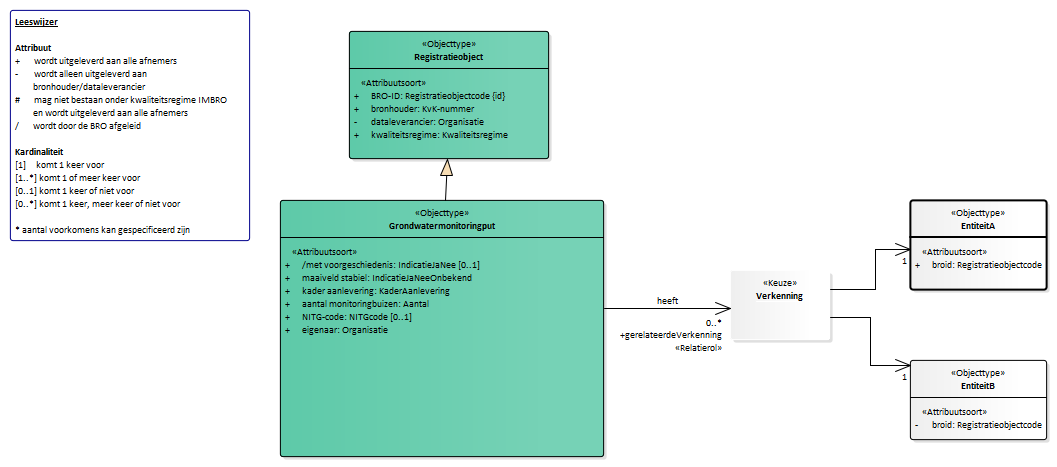
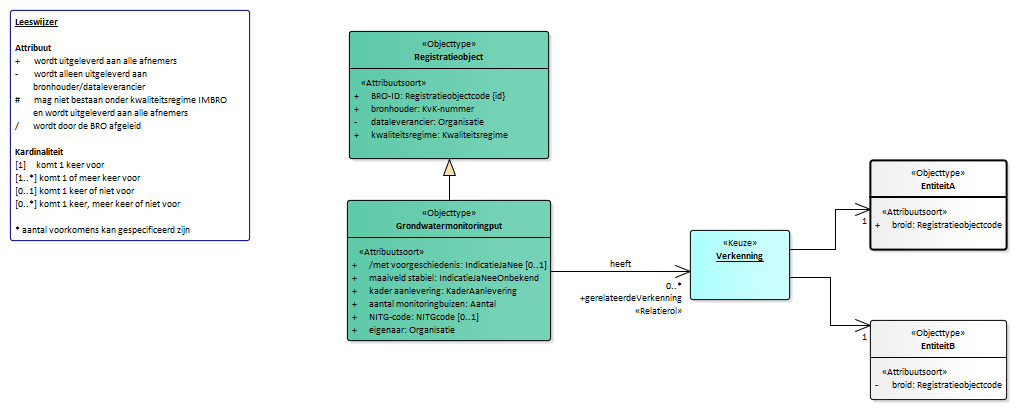
Conceptualmodel-GMWTestModelleringKeuzeVersieHan-1.0-1-20240131-20241211-103606

Changed region(s): [[0.0, 0.0, 0.823, 0.9951], [0.823, 0.3805, 1.0, 0.6439], [0.823, 0.761, 1.0, 0.9951]]

diff --git a/data/SAMPLE1-cat.msword.html b/data/SAMPLE1-cat.msword.html
@@ -14,8 +14,8 @@
    </head>
    <body>
       <p>Conceptual model/GMW Test Modellering Keuze Versie Han/20240131</p>
-      <p>Imvertor: Nightly-build.14</p>
-      <p>Model release: Conceptualmodel-GMWTestModelleringKeuzeVersieHan-1.0-1-20240131-20240423-095846</p>
+      <p>Imvertor: 4.2.0</p>
+      <p>Model release: Conceptualmodel-GMWTestModelleringKeuzeVersieHan-1.0-1-20240131-20241211-103606</p>
       <hr>
       <section>
          <h1>Artikel 1 Definitie van registratieobject, entiteiten en attributen</h1>
@@ -63,7 +63,7 @@
          <section>
             <h2>Het domeinmodel</h2>
             <section>
-               <div class="imageinfo overview"><img src="Images/EAID_C9AEDACB_CD09_4aa8_8B6A_A197B72070D2.png" usemap="#imagemap-EAID_C9AEDACB_CD09_4aa8_8B6A_A197B72070D2" alt="Diagram: Grondwatermonitorput (GMW) - overzicht"><map name="imagemap-EAID_C9AEDACB_CD09_4aa8_8B6A_A197B72070D2"><area shape="rect" alt="EntiteitB" coords="910,360,1047,440" href="#global_class_Model_EntiteitB"><area shape="rect" alt="EntiteitA" coords="910,200,1047,290" href="#global_class_Model_EntiteitA"><area shape="rect" alt="Registratieobject" coords="349,31,549,159" href="#global_class_Model_Registratieobject"><area shape="rect" alt="Grondwatermonitoringput" coords="280,200,604,457" href="#global_class_Model_Grondwatermonitoringput"></map><p><b>Grondwatermonitorput (GMW)</b>
+               <div class="imageinfo overview"><img src="Images/EAID_C9AEDACB_CD09_4aa8_8B6A_A197B72070D2.png" usemap="#imagemap-EAID_C9AEDACB_CD09_4aa8_8B6A_A197B72070D2" alt="Diagram: Grondwatermonitorput (GMW) - overzicht"><map name="imagemap-EAID_C9AEDACB_CD09_4aa8_8B6A_A197B72070D2"><area shape="rect" alt="EntiteitB" coords="870,320,1007,400" href="#global_class_Model_EntiteitB"><area shape="rect" alt="EntiteitA" coords="870,160,1007,250" href="#global_class_Model_EntiteitA"><area shape="rect" alt="Registratieobject" coords="349,31,549,159" href="#global_class_Model_Registratieobject"><area shape="rect" alt="Grondwatermonitoringput" coords="347,200,551,341" href="#global_class_Model_Grondwatermonitoringput"></map><p><b>Grondwatermonitorput (GMW)</b>
                      
                      <p></p>
                      </p>
@@ -899,108 +899,11 @@
                </tbody>
             </table>
             
-            <table style="width: 100%;" class="list">
-               <colgroup style="width: 20%;"></colgroup>
-               <colgroup style="width: 5%;"></colgroup>
-               <colgroup style="width: 5%;"></colgroup>
-               <colgroup></colgroup>
+            <table style="width: 100%;">
                <tbody>
                   <tr>
                      <th>Waarde</th>
-                     <th>IMBRO</th>
-                     <th>IMBRO/A</th>
                      <th>Omschrijving</th>
-                  </tr>
-                  <tr>
-                     <td>GBM</td>
-                     <td>✔</td>
-                     <td>✔</td>
-                     <td>
-                        
-                        <p>De gegevens zijn aangeleverd in het kader van de wet gewasbeschermingsmiddelen en
-                           biociden.</p>
-                        </td>
-                  </tr>
-                  <tr>
-                     <td>KRW</td>
-                     <td>✔</td>
-                     <td>✔</td>
-                     <td>
-                        
-                        <p>De gegevens zijn aangeleverd in het kader van de Kaderrichtlijn water.</p>
-                        </td>
-                  </tr>
-                  <tr>
-                     <td>monitoringBijDrinkwaterwinning</td>
-                     <td>✔</td>
-                     <td>✔</td>
-                     <td>
-                        
-                        <p>De gegevens zijn aangeleverd in het kader van monitoring van grondwater door drinkwaterbedrijven.</p>
-                        </td>
-                  </tr>
-                  <tr>
-                     <td>NBW</td>
-                     <td>✔</td>
-                     <td>✔</td>
-                     <td>
-                        
-                        <p>De gegevens zijn aangeleverd in het kader van de wet natuurbescherming.</p>
-                        </td>
-                  </tr>
-                  <tr>
-                     <td>NR</td>
-                     <td>✔</td>
-                     <td>✔</td>
-                     <td>
-                        
-                        <p>De gegevens zijn aangeleverd in het kader van de nitraatrichtlijn.</p>
-                        </td>
-                  </tr>
-                  <tr>
-                     <td>OGW</td>
-                     <td>✔</td>
-                     <td>✔</td>
-                     <td>
-                        
-                        <p>De gegevens zijn aangeleverd in het kader van de ontgrondingenwet.</p>
-                        </td>
-                  </tr>
-                  <tr>
-                     <td>OW</td>
-                     <td>✔</td>
-                     <td>✔</td>
-                     <td>
-                        
-                        <p>De gegevens zijn aangeleverd in het kader van de omgevingswet.</p>
-                        </td>
-                  </tr>
-                  <tr>
-                     <td>publiekeTaak</td>
-                     <td>✔</td>
-                     <td>✔</td>
-                     <td>
-                        
-                        <p>De gegevens zijn aangeleverd in het kader van de publieke taakuitvoering.</p>
-                        </td>
-                  </tr>
-                  <tr>
-                     <td>WW</td>
-                     <td>✔</td>
-                     <td>✔</td>
-                     <td>
-                        
-                        <p>De gegevens zijn aangeleverd in het kader van de waterwet.</p>
-                        </td>
-                  </tr>
-                  <tr>
-                     <td>archiefoverdracht</td>
-                     <td></td>
-                     <td>✔</td>
-                     <td>
-                        
-                        <p>De gegevens zijn aangeleverd in het kader van archiefoverdracht.</p>
-                        </td>
                   </tr>
                </tbody>
             </table>

diff --git a/data/SAMPLE1-cat.respec.html b/data/SAMPLE1-cat.respec.html
@@ -41,7 +41,7 @@
       </section>
    <section>
       <h2>Het domeinmodel   </h2>
-      <div class="imageinfo overview"><img src="data/Images/EAID_C9AEDACB_CD09_4aa8_8B6A_A197B72070D2.png" usemap="#imagemap-EAID_C9AEDACB_CD09_4aa8_8B6A_A197B72070D2" alt="Diagram: Grondwatermonitorput (GMW) - overzicht"><map name="imagemap-EAID_C9AEDACB_CD09_4aa8_8B6A_A197B72070D2"><area shape="rect" alt="EntiteitB" coords="910,360,1047,440" href="#global_class_Model_EntiteitB"><area shape="rect" alt="EntiteitA" coords="910,200,1047,290" href="#global_class_Model_EntiteitA"><area shape="rect" alt="Registratieobject" coords="349,31,549,159" href="#global_class_Model_Registratieobject"><area shape="rect" alt="Grondwatermonitoringput" coords="280,200,604,457" href="#global_class_Model_Grondwatermonitoringput"></map><p><b>Grondwatermonitorput (GMW)</b>
+      <div class="imageinfo overview"><img src="data/Images/EAID_C9AEDACB_CD09_4aa8_8B6A_A197B72070D2.png" usemap="#imagemap-EAID_C9AEDACB_CD09_4aa8_8B6A_A197B72070D2" alt="Diagram: Grondwatermonitorput (GMW) - overzicht"><map name="imagemap-EAID_C9AEDACB_CD09_4aa8_8B6A_A197B72070D2"><area shape="rect" alt="EntiteitB" coords="870,320,1007,400" href="#global_class_Model_EntiteitB"><area shape="rect" alt="EntiteitA" coords="870,160,1007,250" href="#global_class_Model_EntiteitA"><area shape="rect" alt="Registratieobject" coords="349,31,549,159" href="#global_class_Model_Registratieobject"><area shape="rect" alt="Grondwatermonitoringput" coords="347,200,551,341" href="#global_class_Model_Grondwatermonitoringput"></map><p><b>Grondwatermonitorput (GMW)</b>
             
             <p></p>
             </p>
@@ -873,108 +873,11 @@
          </tbody>
       </table>
       
-      <table style="width: 100%;" class="list">
-         <colgroup style="width: 20%;"></colgroup>
-         <colgroup style="width: 5%;"></colgroup>
-         <colgroup style="width: 5%;"></colgroup>
-         <colgroup></colgroup>
+      <table style="width: 100%;">
          <tbody>
             <tr>
                <th>Waarde</th>
-               <th>IMBRO</th>
-               <th>IMBRO/A</th>
                <th>Omschrijving</th>
-            </tr>
-            <tr>
-               <td>GBM</td>
-               <td>✔</td>
-               <td>✔</td>
-               <td>
-                  
-                  <p>De gegevens zijn aangeleverd in het kader van de wet gewasbeschermingsmiddelen en
-                     biociden.</p>
-                  </td>
-            </tr>
-            <tr>
-               <td>KRW</td>
-               <td>✔</td>
-               <td>✔</td>
-               <td>
-                  
-                  <p>De gegevens zijn aangeleverd in het kader van de Kaderrichtlijn water.</p>
-                  </td>
-            </tr>
-            <tr>
-               <td>monitoringBijDrinkwaterwinning</td>
-               <td>✔</td>
-               <td>✔</td>
-               <td>
-                  
-                  <p>De gegevens zijn aangeleverd in het kader van monitoring van grondwater door drinkwaterbedrijven.</p>
-                  </td>
-            </tr>
-            <tr>
-               <td>NBW</td>
-               <td>✔</td>
-               <td>✔</td>
-               <td>
-                  
-                  <p>De gegevens zijn aangeleverd in het kader van de wet natuurbescherming.</p>
-                  </td>
-            </tr>
-            <tr>
-               <td>NR</td>
-               <td>✔</td>
-               <td>✔</td>
-               <td>
-                  
-                  <p>De gegevens zijn aangeleverd in het kader van de nitraatrichtlijn.</p>
-                  </td>
-            </tr>
-            <tr>
-               <td>OGW</td>
-               <td>✔</td>
-               <td>✔</td>
-               <td>
-                  
-                  <p>De gegevens zijn aangeleverd in het kader van de ontgrondingenwet.</p>
-                  </td>
-            </tr>
-            <tr>
-               <td>OW</td>
-               <td>✔</td>
-               <td>✔</td>
-               <td>
-                  
-                  <p>De gegevens zijn aangeleverd in het kader van de omgevingswet.</p>
-                  </td>
-            </tr>
-            <tr>
-               <td>publiekeTaak</td>
-               <td>✔</td>
-               <td>✔</td>
-               <td>
-                  
-                  <p>De gegevens zijn aangeleverd in het kader van de publieke taakuitvoering.</p>
-                  </td>
-            </tr>
-            <tr>
-               <td>WW</td>
-               <td>✔</td>
-               <td>✔</td>
-               <td>
-                  
-                  <p>De gegevens zijn aangeleverd in het kader van de waterwet.</p>
-                  </td>
-            </tr>
-            <tr>
-               <td>archiefoverdracht</td>
-               <td></td>
-               <td>✔</td>
-               <td>
-                  
-                  <p>De gegevens zijn aangeleverd in het kader van archiefoverdracht.</p>
-                  </td>
             </tr>
          </tbody>
       </table>
